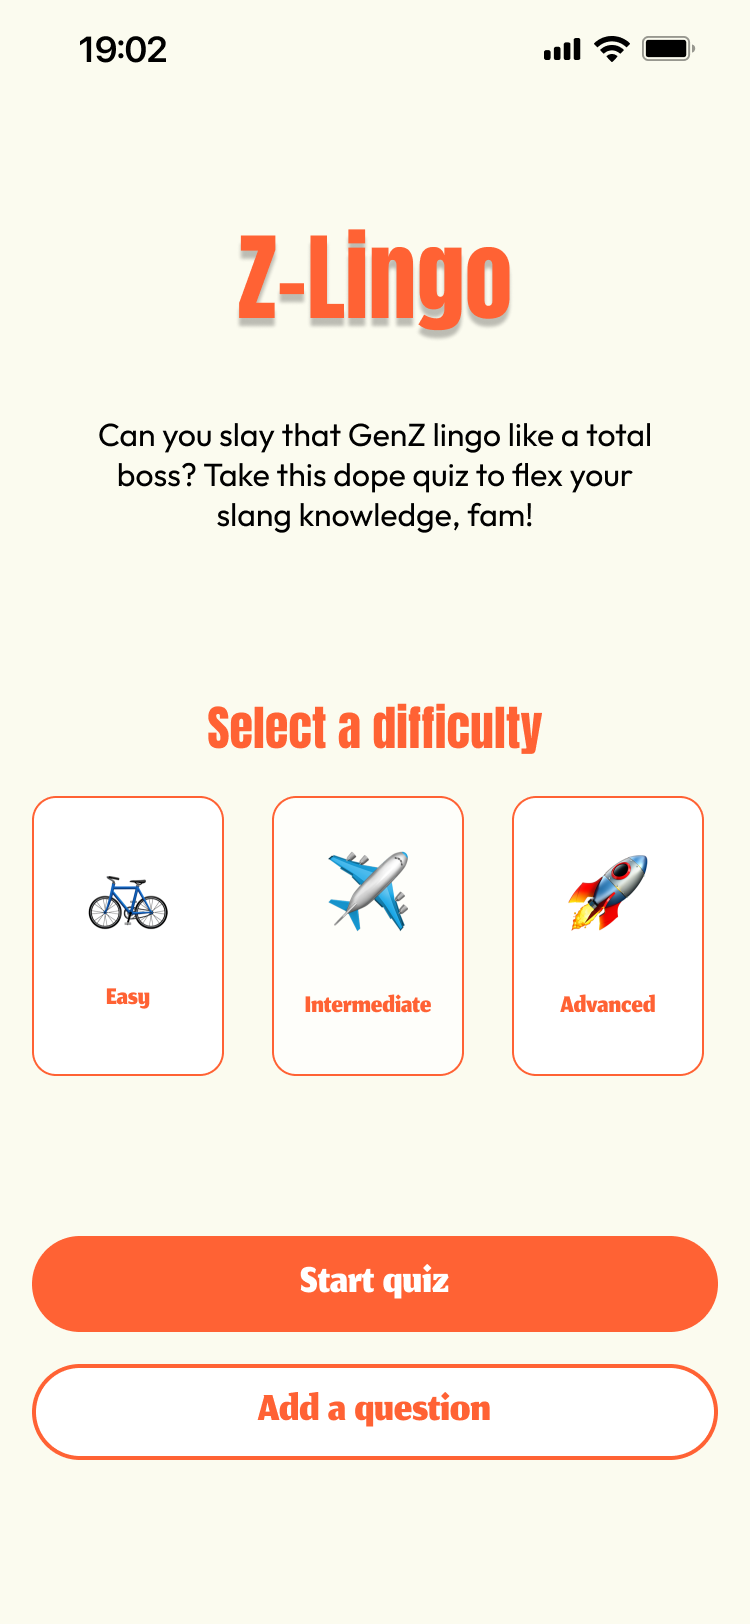
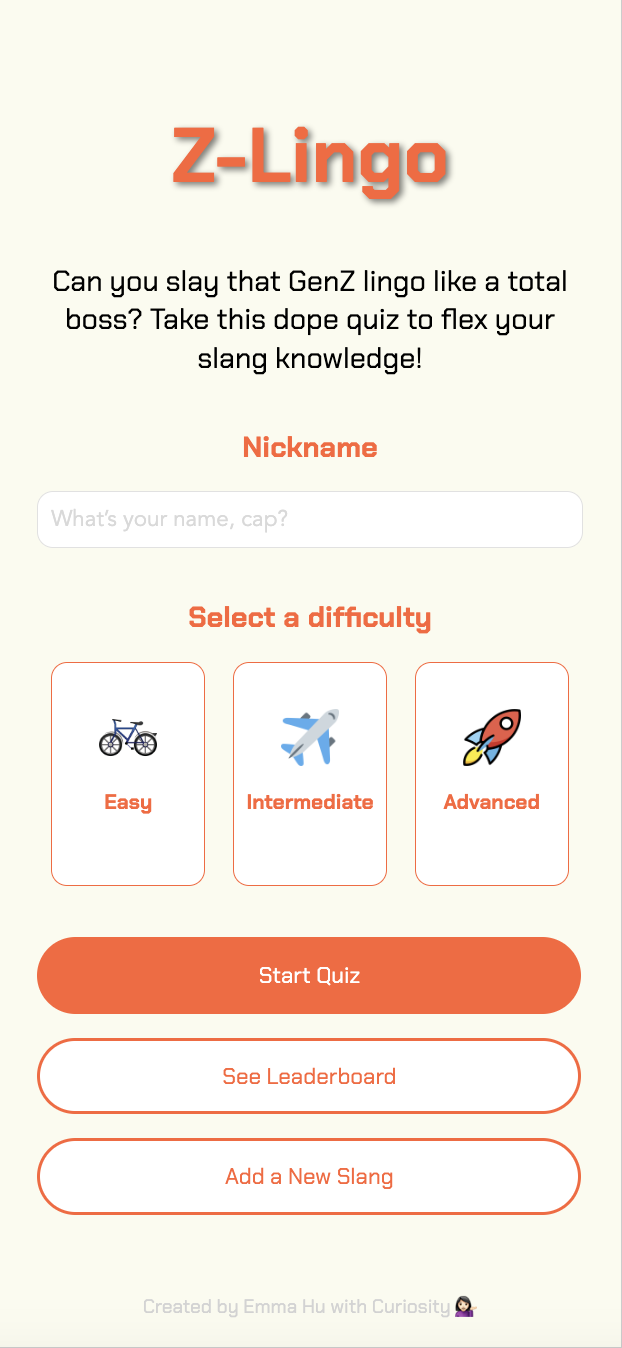
Update README.md

diff --git a/client/src/pages/LeaderboardPage/LeaderboardPage.scss b/client/src/pages/LeaderboardPage/LeaderboardPage.scss
@@ -10,6 +10,8 @@
     align-items: center;
     height: 80%;
     justify-content: space-around;
+    padding: $mobile-padding-between-components;
+
 
   &__title {
 

diff --git a/README.md b/README.md
@@ -2,23 +2,97 @@
 
 Z-Lingo
 
+## Setup Instructions
+
+### The app has been deployed! Click on the URL below to try it out:
+
+```
+placeholder url
+```
+
+
+### Alternatively, to run it locally:
+
+#### Step 1: Clone the Repository
+First, clone the repository to your local machine using the following command:
+
+```
+git clone https://github.com/emma-z-hu/z-lingo.git
+```
+
+Navigate into the cloned directory:
+
+```
+cd emma-hu-z-lingo
+```
+
+#### Step 2: Set Up the Backend
+Navigate to the server directory:
+
+```
+cd server/
+```
+
+
+Install the required dependencies:
+
+```
+npm install
+```
+
+
+Set up the environment variables. Create a .env file in the server directory with the following content:
+```
+PORT=8080
+CORS_ORIGIN=http://localhost:5173
+```
+You can modify the port if needed.
+
+Start the backend server:
+
+```
+npm start
+```
+
+The server should start on the specified port (default is 8080).
+
+#### Step 3: Set Up the Frontend
+Navigate to the client directory:
+```
+cd ../client
+```
+
+Install the required dependencies:
+```
+npm install
+```
+
+Start the frontend development server:
+```
+npm run dev
+```
+
+The frontend should now be running at http://localhost:5173 .
+
+
+
 ## Overview
 
-Z-Lingo is an interactive web application that gamifies the learning experience for Boomers and Millennials, helping them assess and improve their understanding of Gen Z slangs. Users are presented with fun and challenging quizzes, allowing them to stay updated with the latest language trends of younger generations.
+Z-Lingo is an interactive web application that gamifies the learning experience for Boomers and Millennials, helping them assess and improve their understanding of Gen Z / Gen Alpha slangs. Users are presented with fun and challenging quizzes, allowing them to stay updated with the latest language trends of younger generations.
 
 ### Problem Space
 
-Language evolves rapidly, and with each generation comes new slang and expressions. Boomers and Millennials often find themselves disconnected from Gen Z's communication styles, which can lead to misunderstandings and feelings of being out of touch. Z-Lingo addresses this gap by offering an entertaining platform where users can test their knowledge of Gen Z slang, learn new phrases, and improve their cultural literacy in a fun and engaging way. #NoMoreFOMO
+Language evolves rapidly, and with each generation comes new slang and expressions. Boomers and Millennials often find themselves disconnected from Gen Z / Alpha's communication styles, which can lead to misunderstandings and feelings of being out of touch. Z-Lingo addresses this gap by offering an entertaining platform where users can test their knowledge of Gen Z / Alpha slang, learn new phrases, and improve their cultural literacy in a fun and engaging way. #NoMoreFOMO
 
 ### User Profile
 
 Boomers and Millennials:
 
-- Interested in understanding and keeping up with Gen Z slang.
+- Interested in understanding and keeping up with Gen Z / Alpha slang.
 - Looking for an enjoyable and educational experience.
 - Competitive users who enjoy gamified learning experiences.
 
-GenZ's:
+Gen Z / Alpha:
 
 - Looking to get up with their peers
 - Interested in contributing their knowledge in latest language trends.
@@ -27,17 +101,20 @@ GenZ's:
 
 Phase 1 (MVP) features:
 
-- As a user, I want to be presented with 10 multiple-choice questions featuring Gen Z slang terms so I can test my knowledge.
+- As a user, I want to be presented with 10 multiple-choice questions featuring Gen Z / Alpha slang terms so I can test my knowledge.
 - As a user, I want to categorize quizzes by difficulty level to tailor my learning experience.
-- As a user, I want to see my score immediately after completing the quiz so I can know how well I did.
+- As a user, I want to see my score and percentile immediately after completing the quiz so I can know how well I did.
+- As a user, I want to see how ranking compared to other users to gauge my performance.
 - As a user, I want to contribute by adding new slang terms and creating quiz questions to enhance the content.
 
 Phase 2 features:
 
-- As a user, I want to see my ranking compared to other users to gauge my performance.
+- As a user, I want to some assistant from AI when creating new quiz questions.
 - As a user, I want to receive a "Gen Z Slang of the Day" to gradually expand my vocabulary.
 - As a user, I want to sign up and log in to track my quiz history and progress over time.
 - As a logged-in user, I want to access a leaderboard to see how I compare with others.
+- As a user, I do not wish to see sensitive / violent / inappropriate content.
+- As a user, I want to get an optimal experience on all devices (desktop / tablet / mobile).
 
 ## Implementation
 
@@ -53,19 +130,22 @@ Phase 2 features:
     - knex
     - express
     - bcrypt for password hashing
-- Database: MySQL for storing user data, quiz questions, and results.
+- Database (optional): MySQL for storing user data, quiz questions, and results.
 
 ### APIs
 
 - Custom API: A custom-built API will manage user data, quiz content, scoring, and rankings.
-- External API (Optional): An external API providing a repository of Gen Z slang and their definitions may be integrated to seed the quiz database. For the MVP, the content will primarily be internally curated.
+- External API (Optional): 
+i) An external API providing a repository of Gen Z slang and their definitions may be integrated to seed the quiz database. For the MVP, the content will primarily be internally curated. ii) An OpenAI API providing tailored learning experience, as well as content assistance for new quiz creation.
 
 ### Sitemap
 
-- Home Page: Introduction to Z-Lingo and a call-to-action to start the quiz.
-- Quiz Page: Displays 10 multiple-choice questions for the user to answer.
-- Results Page: Shows the user's score.
+- Home Page: Introduction to Z-Lingo and  call-to-actions to start the quiz / see the leaderboard / add a new quiz.
+- Quiz Page: Displays 10 multiple-choice questions for the user to answer, based on the difficulty level selected.
+- Quiz Results Page: Shows the user's score, percentile, and comments. Call-to-actions to start another quiz / see the leaderboard / return to home page.
 - Create A Quiz Page: Allows user to contribute new slang terms and create quiz questions to add to the quiz inventory.
+- Quiz Added Page: Confirms quiz has been added, with call-to-actions to add another quiz or return to home page.
+- Leaderboard Page: Shows the top 10 scores,and the username for the difficulty level selected, with call-to-action to return to home page.
 
 
 ### Mockups
@@ -78,11 +158,10 @@ Phase 2 features:
 #### Quiz Page
 
 ![](prototypes/quiz-question.png)
-![](prototypes/quiz-answer-correct.png)
-![](prototypes/quiz-answer-incorrect.png)
+![](prototypes/quiz-question-correct.png)
+![](prototypes/quiz-question-incorrect.png)
 
-
-#### Result Page
+#### Quiz Result Page
 
 ![](prototypes/quiz-result.png)
 
@@ -90,11 +169,16 @@ Phase 2 features:
 
 ![](prototypes/add-new-quiz-blank.png)
 ![](prototypes/add-new-quiz-filled.png)
+
+#### Quiz Added Page
 ![](prototypes/new-quiz-added.png)
 
+#### Leaderboard Page
+![](prototypes/leaderboard.png)
 
 
-### Data
+
+### Data (Optional)
 
 ![](prototypes/data-tables.png)
 
@@ -114,7 +198,7 @@ Phase 2 features:
 | GET    | /api/quiz        | Fetch a set of 10 quiz questions                      | Phase 1 |
 | POST   | /api/quiz/submit | Submit quiz answers and get score and ranking         | Phase 1 |
 | POST   | /api/quiz/add    | Allow users to add new slang terms and quiz questions | Phase 1 |
-| GET    | /api/leaderboard | Fetch top-ranked users                                | Phase 2 |
+| GET    | /api/leaderboard | Fetch top-ranked users                                | Phase 1 |
 | POST   | /api/auth/signup | Register a new user                                   | Phase 2 |
 | POST   | /api/auth/login  | Log in an existing user                               | Phase 2 |
 
@@ -124,34 +208,9 @@ Phase 2 features:
 
 Parameters:
 
-- Difficulty (optional): A string representing the difficulty level of the quiz (e.g., "Easy", "Intermediate", "Advanced").
+- Difficulty: A string representing the difficulty level of the quiz (e.g., "Easy", "Intermediate", "Advanced").
 
-Example Request (If `difficulty` is omitted):
-
-- `GET /api/quiz`
-
-Success Response (200):
-
-```
-[
-    {
-        "id": 1,
-        "question": "What does 'no cap' mean?",
-        "options": ["No lie", "No hat", "No joke", "No problem"],
-        "correctOption": null,
-        "difficulty": "Easy"
-    },
-    {
-        "id": 2,
-        "question": "What does 'FOMO' stand for?",
-        "options": ["Fear of missing out", "Feeling of mustering out", "Fast out, move on", "Fun over, move out"],
-        "correctOption": null,
-        "difficulty": "Intermediate"
-    }
-]
-```
-
-Example Request (If `difficulty` is provided):
+Example Request :
 
 - `GET /api/quiz?difficulty=Intermediate`
 
@@ -172,13 +231,6 @@ Success Response (200):
             "options": ["Suspicious", "Sustainable", "Surprised", "Super"],
             "correctOption": null,
             "difficulty": "Intermediate"
-        },
-        {
-            "id": 3,
-            "question": "What does 'lit' mean?",
-            "options": ["Exciting", "Burning", "Boring", "Dangerous"],
-            "correctOption": null,
-            "difficulty": "Easy"
         }
 ]
 ```
@@ -308,6 +360,48 @@ Error Response (500 - Internal Server Error):
 }
 ```
 
+**POST /api/leaderboard**
+
+- Retrieve the top 10 scores for a specified difficulty level.
+
+Parameters (Request Body):
+
+- `difficulty`: The difficulty level of the leaderboard to retrieve. Choose from "Easy", "Intermediate", and "Advanced".
+
+Example Request Body:
+
+```
+GET /api/leaderboard?difficulty=Easy
+```
+
+Success Response (200):
+
+```
+{
+    "leaderboard": [
+        { "username": "Player1", "score": 9 },
+        { "username": "Player2", "score": 8 },
+        ...
+    ]
+}
+```
+
+Error Response (400 - Bad Request):
+
+```
+{
+    "error": "Invalid or missing difficulty level"
+}
+```
+
+Error Response (500 - Internal Server Error):
+
+```
+{
+    "error": "Failed to fetch leaderboard data"
+}
+```
+
 ## Roadmap
 
 - Project Setup
@@ -340,17 +434,17 @@ Error Response (500 - Internal Server Error):
 
 ## Future  Implementations
 
+- Leverage AI tools to tailor learning experience, as well as provide content assistance for new quiz creation
 - Desktop and Tablet responsive views
-- Results with playing ranking: Shows the user's score, and their ranking compared to historical players.
-- Screening of sensitive / inappropriate / violent words
-- Daily Slang: Introduce a "Gen Z Slang of the Day" feature, providing users with a new slang term to learn each day.
+- Enable the screening of sensitive / inappropriate / violent words
+- Introduce a "Slang of the Day" feature, providing users with a new slang term to learn each day.
 - Authorization and User Login using JWT auth
   - Before adding auth, all API requests will be using a fake user with id 1
   - Added after core features have first been implemented
   - Store JWT in localStorage, remove when a user logs out
   - Add states for logged in showing different UI in places listed in mockups
 - Profile Page: Displays the user's quiz history and personal statistics.
-- Leaderboard Page: Displays top user scores and rankings by user profiles.
-- Social Sharing: Add functionality for users to share their scores on social media platforms.
 - Forgot password functionality
+- Leaderboard Page: Displays top (logged in)user scores and rankings by user profiles.
+- Social Sharing: Add functionality for users to share their scores on social media platforms.
 - Mobile App: Develop a mobile version of the app for iOS and Android to reach a broader audience.
